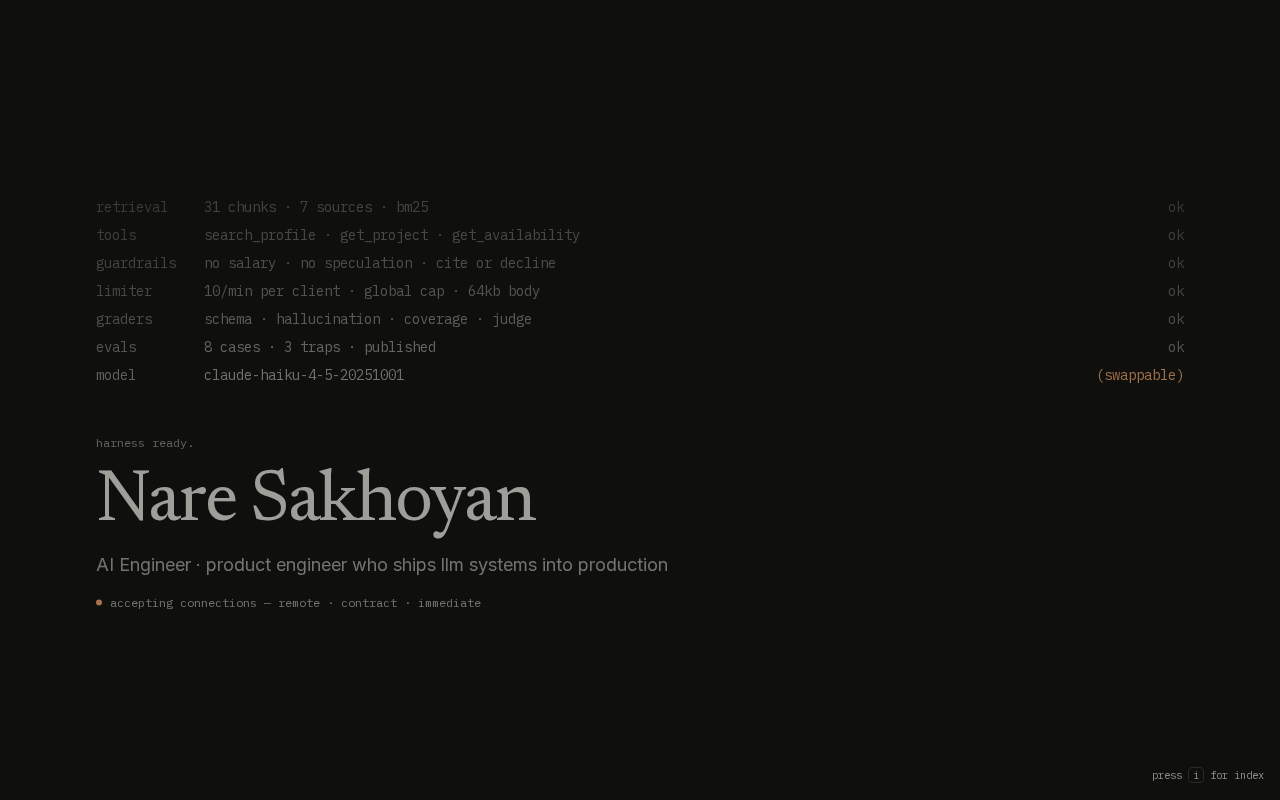
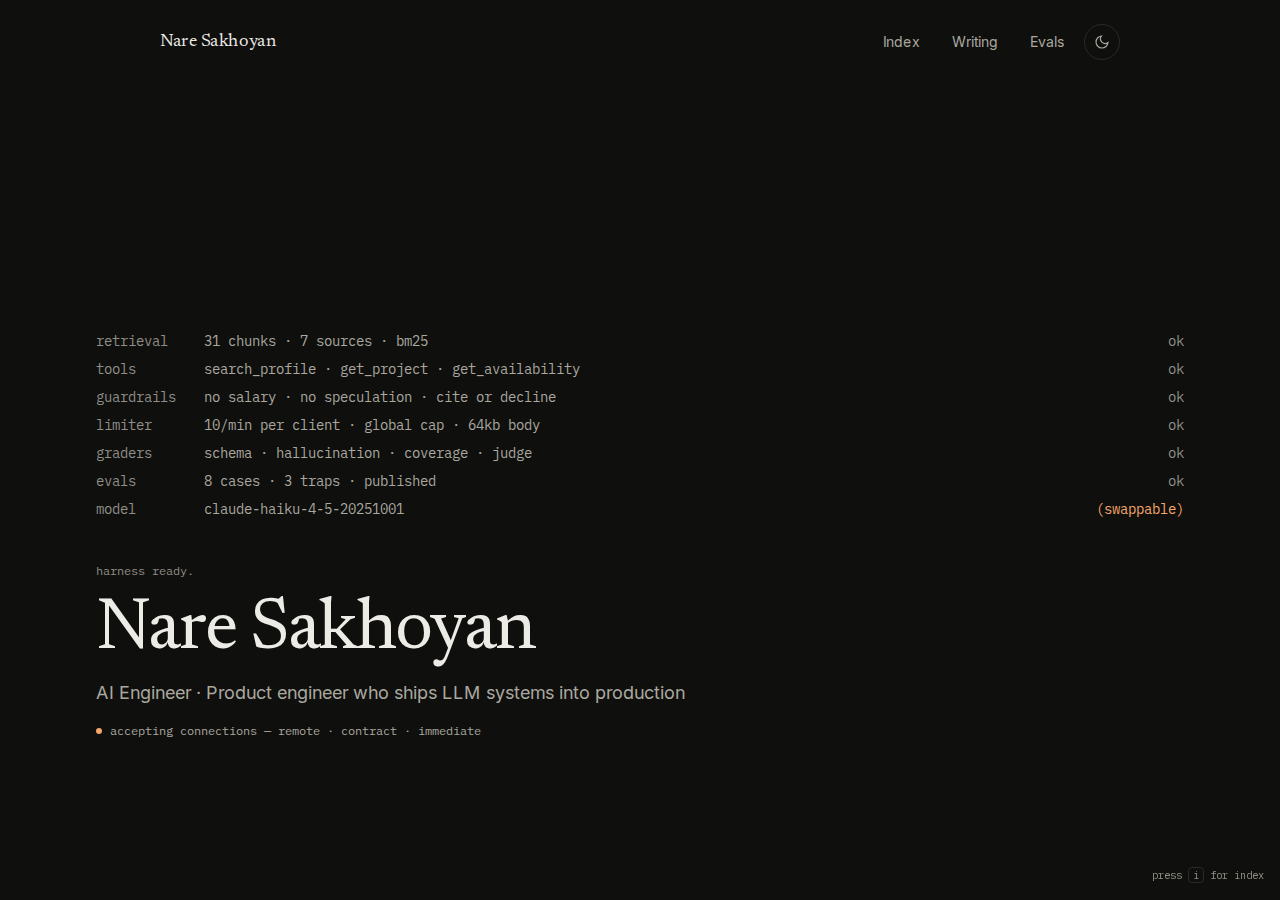
feat(film): boot scene autoplays on load instead of starting blank
Scene 1 is now a mount-animated hero: log lines stagger in on a timer,
identity rises at ~1.2s, scroll cue hands off to the scrubbed scenes.
Fixes the empty first paint; also fixes the scroll hint's positioning
context and 'llm' lowercasing in the positioning line.

diff --git a/components/film/boot-scene.tsx b/components/film/boot-scene.tsx
@@ -1,10 +1,13 @@
 "use client";
 
-import type { MotionValue } from "motion/react";
+import { m } from "motion/react";
+import type { ReactNode } from "react";
 import { SITE } from "@/lib/site/config";
-import { Scene } from "./scene";
-import { FadeIn } from "./scrub";
 import type { BootStats } from "./types";
+
+const LINE_STAGGER = 0.13;
+const IDENTITY_AT = 1.15;
+const HINT_AT = 2.1;
 
 function bootLines(stats: BootStats): { label: string; detail: string; status: string }[] {
   return [
@@ -18,20 +21,17 @@ function bootLines(stats: BootStats): { label: string; detail: string; status: s
   ];
 }
 
-function BootLog({ stats, progress }: { stats: BootStats; progress?: MotionValue<number> }) {
-  const lines = bootLines(stats);
+/** Autoplay entrance: fades up on mount at a fixed delay (no scroll needed). */
+function Enter({ delay, reduce, children }: { delay: number; reduce: boolean; children: ReactNode }) {
+  if (reduce) return <div>{children}</div>;
   return (
-    <div className="font-mono text-[0.8rem] leading-7 text-fg-muted sm:text-sm" aria-label="System boot log">
-      {lines.map((line, i) =>
-        progress ? (
-          <FadeIn key={line.label} progress={progress} at={0.06 + i * 0.07} y={4}>
-            <BootLine {...line} />
-          </FadeIn>
-        ) : (
-          <BootLine key={line.label} {...line} />
-        ),
-      )}
-    </div>
+    <m.div
+      initial={{ opacity: 0, y: 8 }}
+      animate={{ opacity: 1, y: 0 }}
+      transition={{ delay, duration: 0.45, ease: [0.22, 1, 0.36, 1] }}
+    >
+      {children}
+    </m.div>
   );
 }
 
@@ -50,7 +50,7 @@ function Identity() {
     <div className="mt-10">
       <p className="font-mono text-xs text-fg-subtle">harness ready.</p>
       <h1 className="mt-4 font-serif text-5xl tracking-tight text-fg sm:text-7xl">{SITE.name}</h1>
-      <p className="mt-3 text-lg text-fg-muted">{SITE.role} · {SITE.positioning.toLowerCase()}</p>
+      <p className="mt-3 text-lg text-fg-muted">{SITE.role} · {SITE.positioning}</p>
       <p className="mt-4 inline-flex items-center gap-2 font-mono text-xs text-fg-muted">
         <span aria-hidden="true" className="h-1.5 w-1.5 rounded-full bg-accent" />
         accepting connections — remote · contract · immediate
@@ -59,27 +59,31 @@ function Identity() {
   );
 }
 
+/**
+ * Scene 1 plays by itself on page load — the visitor sees the harness boot
+ * without touching the scroll wheel. Scroll takes over from the thesis scene.
+ */
 export function BootScene({ stats, reduce }: { stats: BootStats; reduce: boolean }) {
   return (
-    <Scene
+    <section
       id="boot"
-      length={3}
-      reduce={reduce}
-      staticFrame={
-        <>
-          <BootLog stats={stats} />
-          <Identity />
-        </>
-      }
+      className="relative mx-auto flex min-h-svh w-full max-w-6xl flex-col justify-center px-5 py-16 sm:px-8"
     >
-      {(progress) => (
-        <>
-          <BootLog stats={stats} progress={progress} />
-          <FadeIn progress={progress} at={0.62} span={0.12} y={16}>
-            <Identity />
-          </FadeIn>
-        </>
-      )}
-    </Scene>
+      <div className="font-mono text-[0.8rem] leading-7 text-fg-muted sm:text-sm" aria-label="System boot log">
+        {bootLines(stats).map((line, i) => (
+          <Enter key={line.label} delay={0.15 + i * LINE_STAGGER} reduce={reduce}>
+            <BootLine {...line} />
+          </Enter>
+        ))}
+      </div>
+      <Enter delay={IDENTITY_AT} reduce={reduce}>
+        <Identity />
+      </Enter>
+      <div aria-hidden="true" className="absolute bottom-6 left-1/2 -translate-x-1/2">
+        <Enter delay={HINT_AT} reduce={reduce}>
+          <p className="font-mono text-xs text-fg-subtle">scroll ↓</p>
+        </Enter>
+      </div>
+    </section>
   );
 }

diff --git a/components/home/hero.tsx b/components/home/hero.tsx
@@ -19,7 +19,7 @@ export function Hero() {
         {SITE.name}
       </h1>
       <p className="mt-3 text-lg text-fg-muted">
-        {SITE.role} · {SITE.positioning.toLowerCase()}
+        {SITE.role} · {SITE.positioning}
       </p>
       {/* Kept static: it is the LCP element, so it must paint before hydration. */}
       <p className="mt-8 max-w-[40ch] font-serif text-2xl leading-snug text-fg sm:text-[2rem]">
